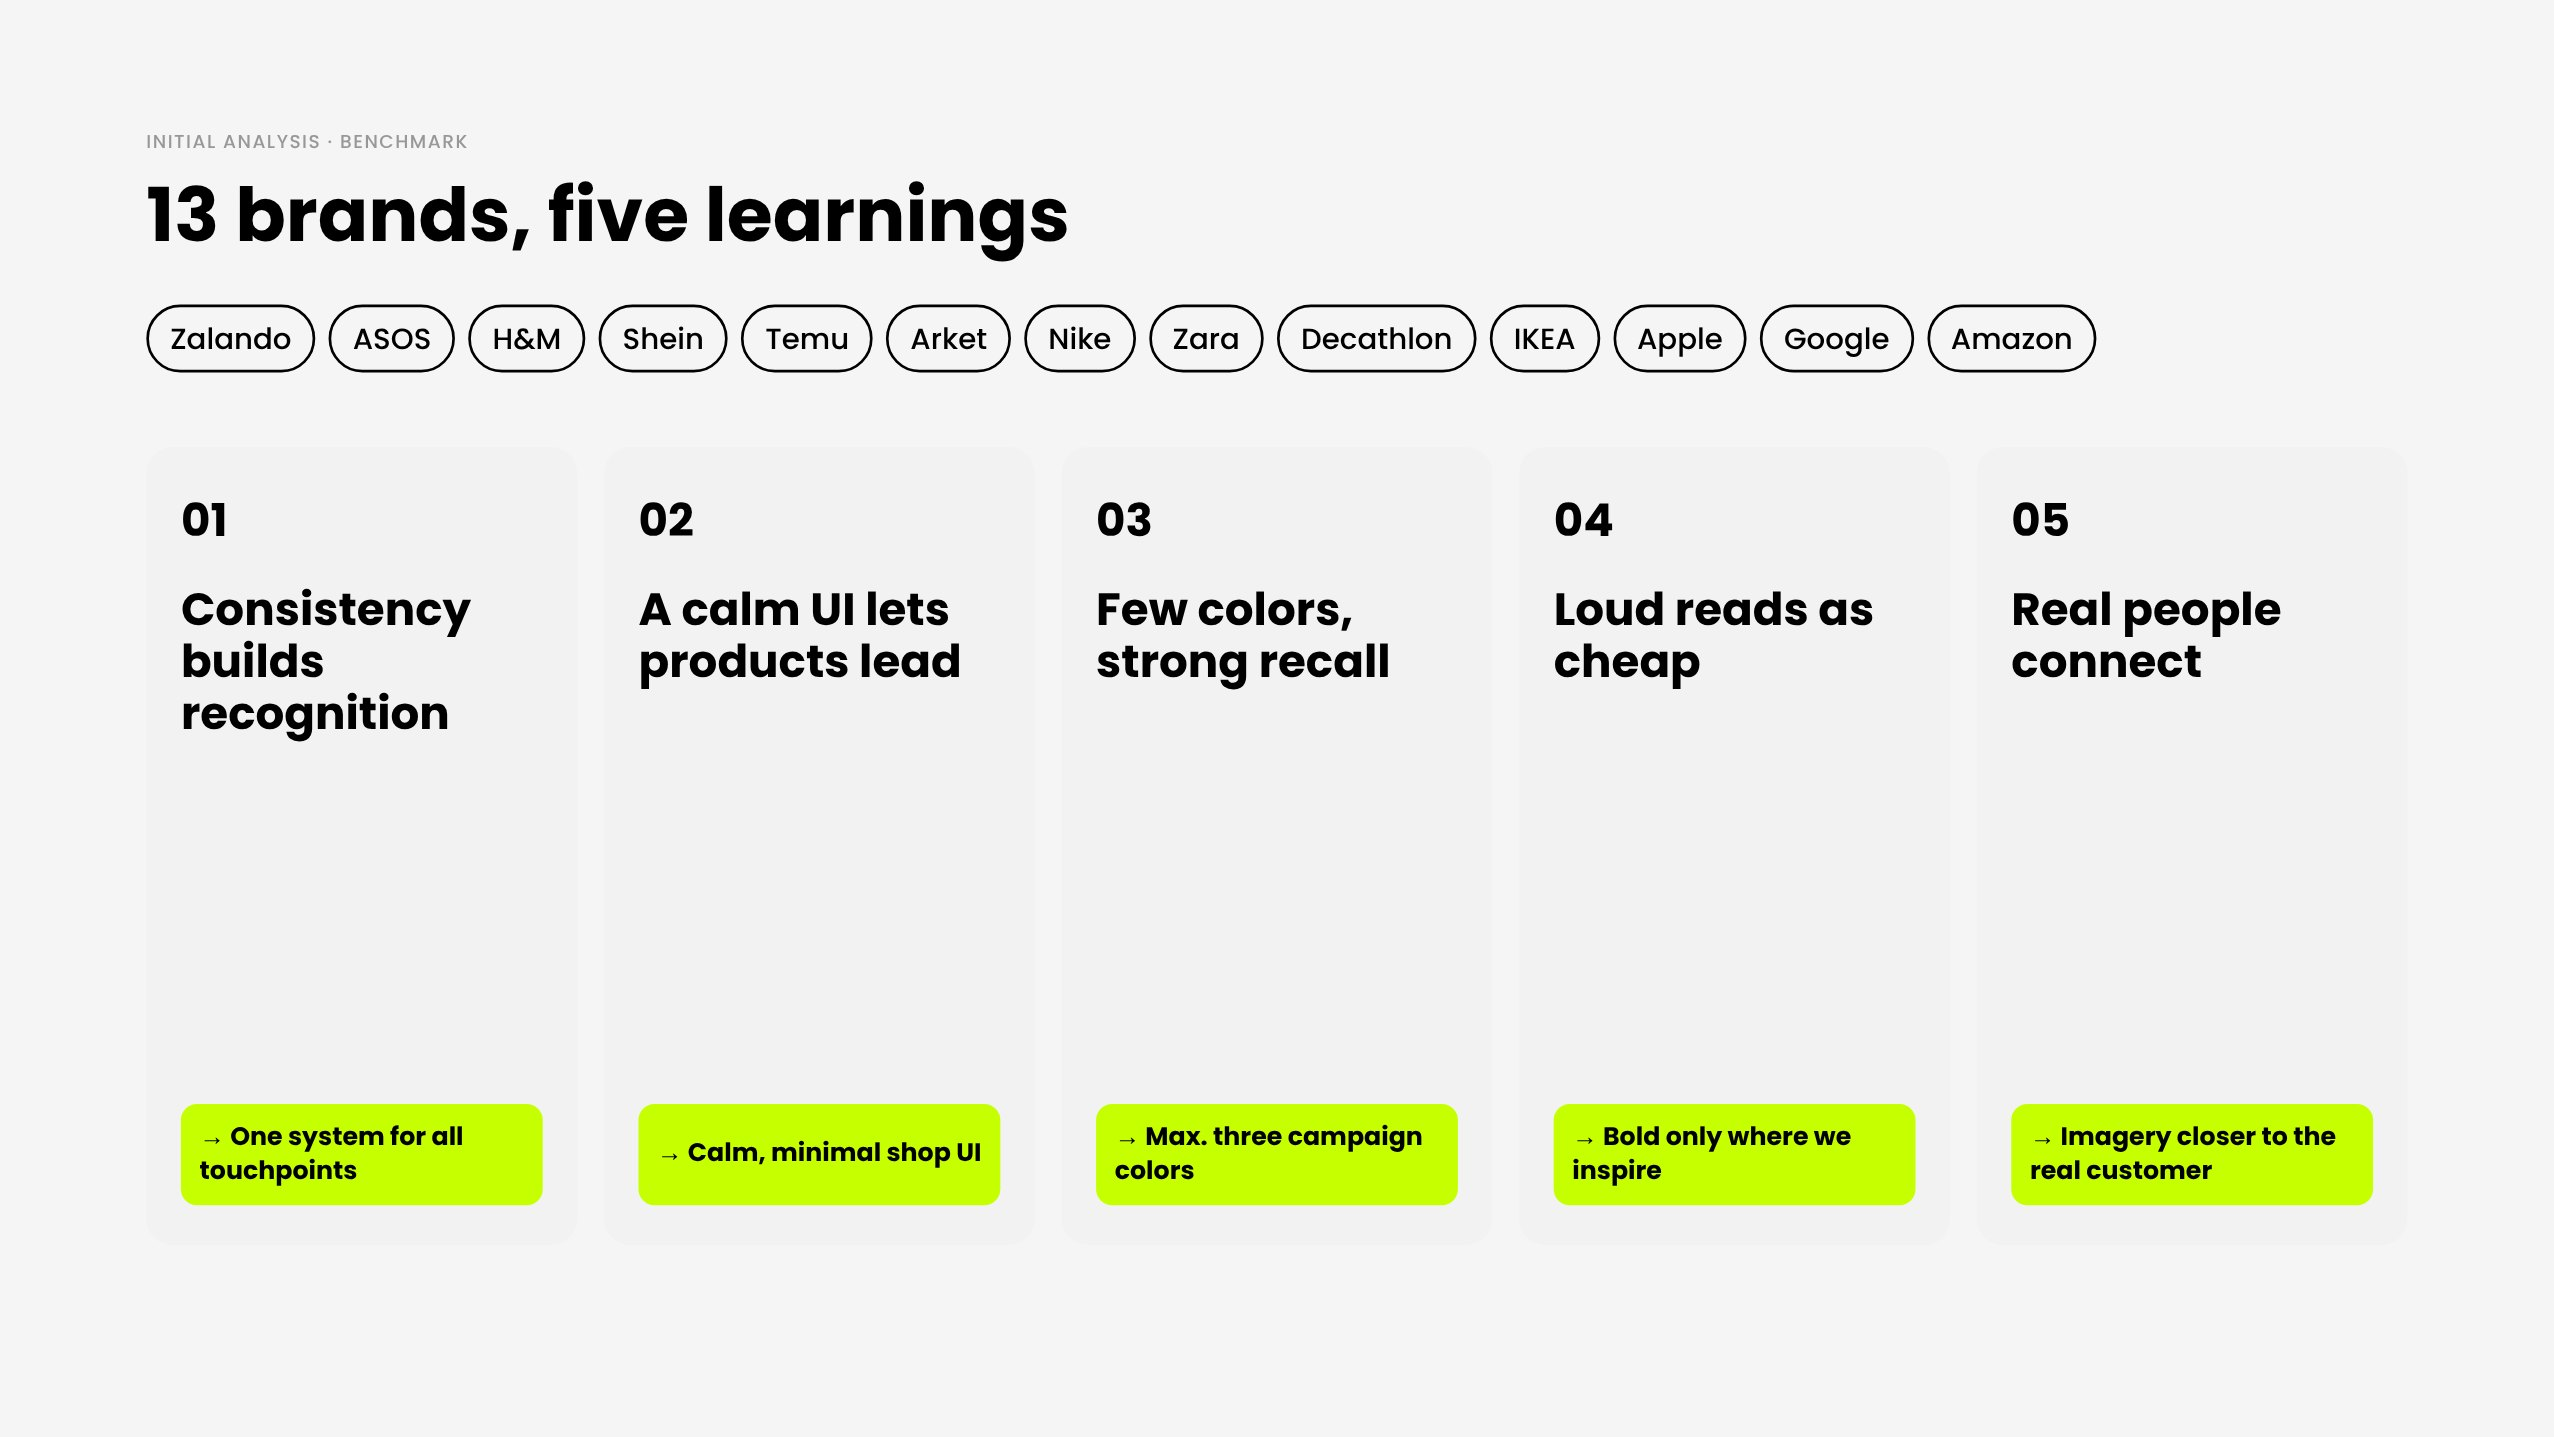
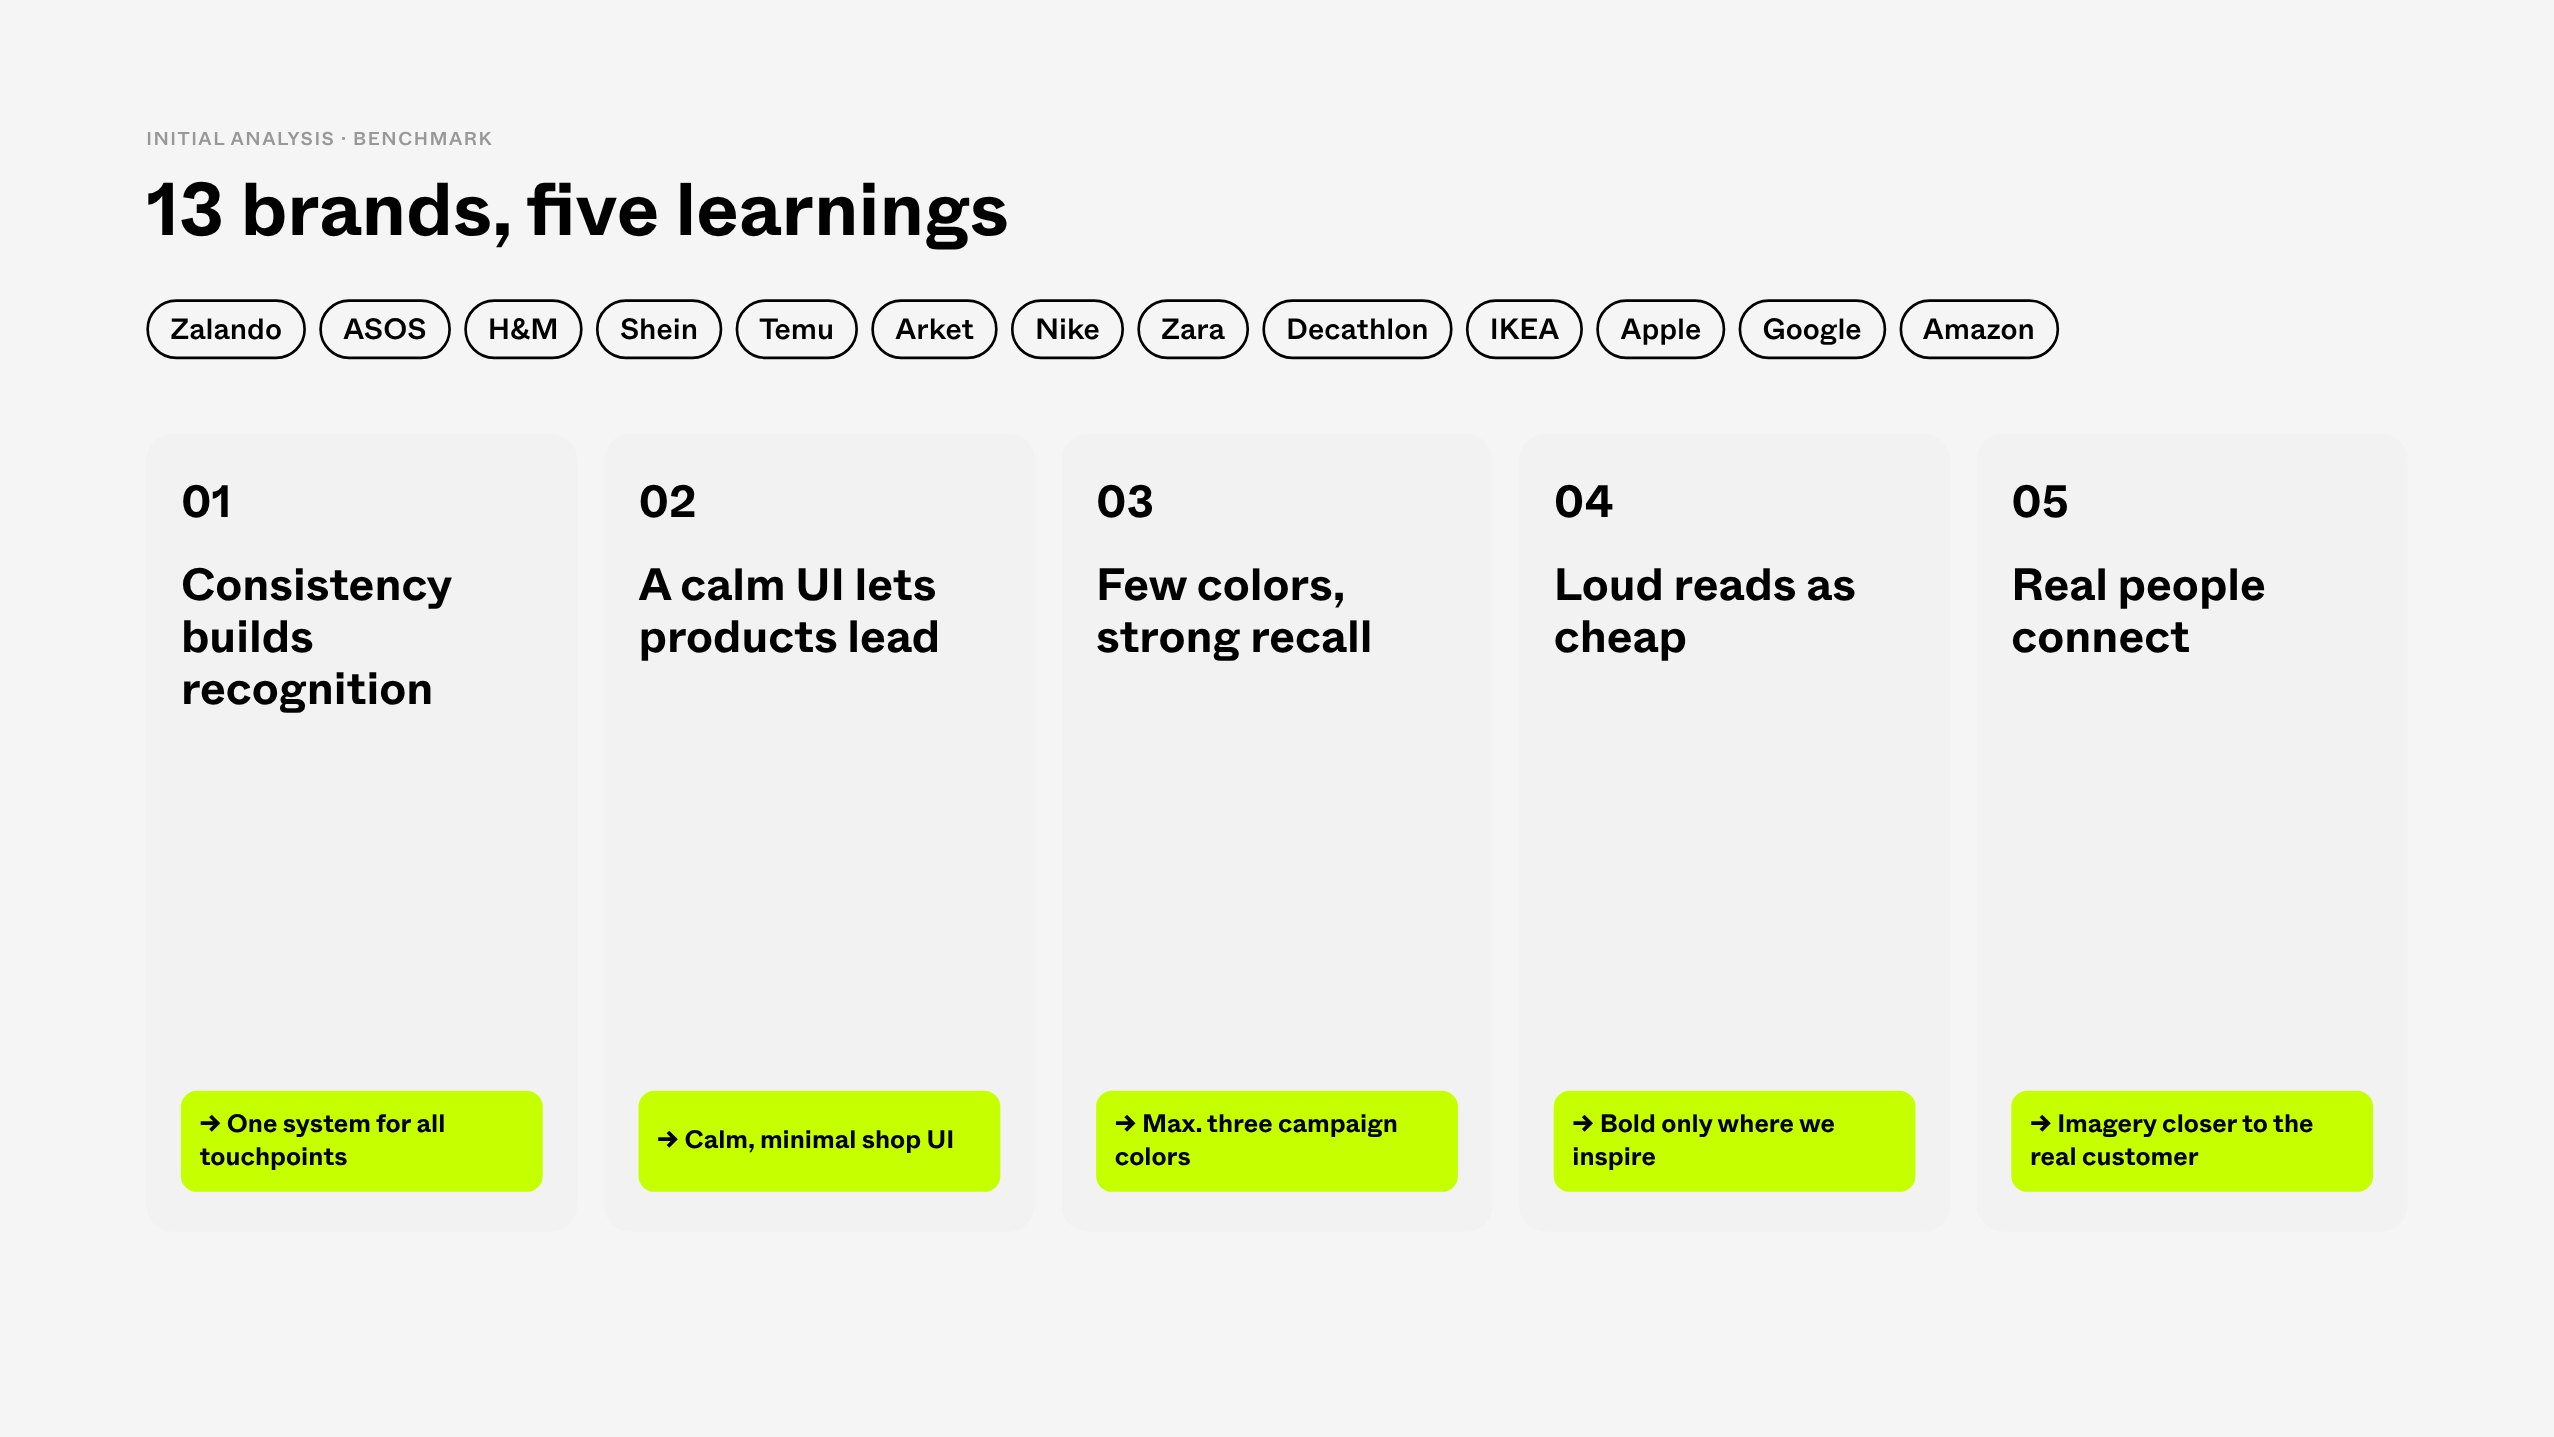
Brand Consistency: render asset text in ABC Whyte
Same layouts, now set in the About You brand font. Font files are used
locally for rendering only and are not committed.

Claude-Session: https://claude.ai/code/session_01EEFsaT795ng18RqbzZtwNk

diff --git a/assets/brand-consistency/CONTENT.md b/assets/brand-consistency/CONTENT.md
@@ -28,7 +28,7 @@ Ready to paste into WordPress → Projects → new entry (ACF fields as used by 
 
 ## `section` (in order)
 
-Composed assets, 2554×1437 JPG, set in the About You type system per brand guide: headlines bold and mixed case without letter-spacing, toplines and labels uppercase with letter-spacing, body regular. Font: Poppins (the guide's official fallback, ABC Whyte files not available). Swap to ABC Whyte when the font files are available. Each element follows the same order: before → in progress → after → brand guide.
+Composed assets, 2554×1437 JPG, set in the About You type system per brand guide: headlines bold and mixed case without letter-spacing, toplines and labels uppercase with letter-spacing, body regular. Font: ABC Whyte (font files used locally for rendering only, not committed because the font is licensed). Each element follows the same order: before → in progress → after → brand guide.
 
 | File | Content |
 |---|---|
